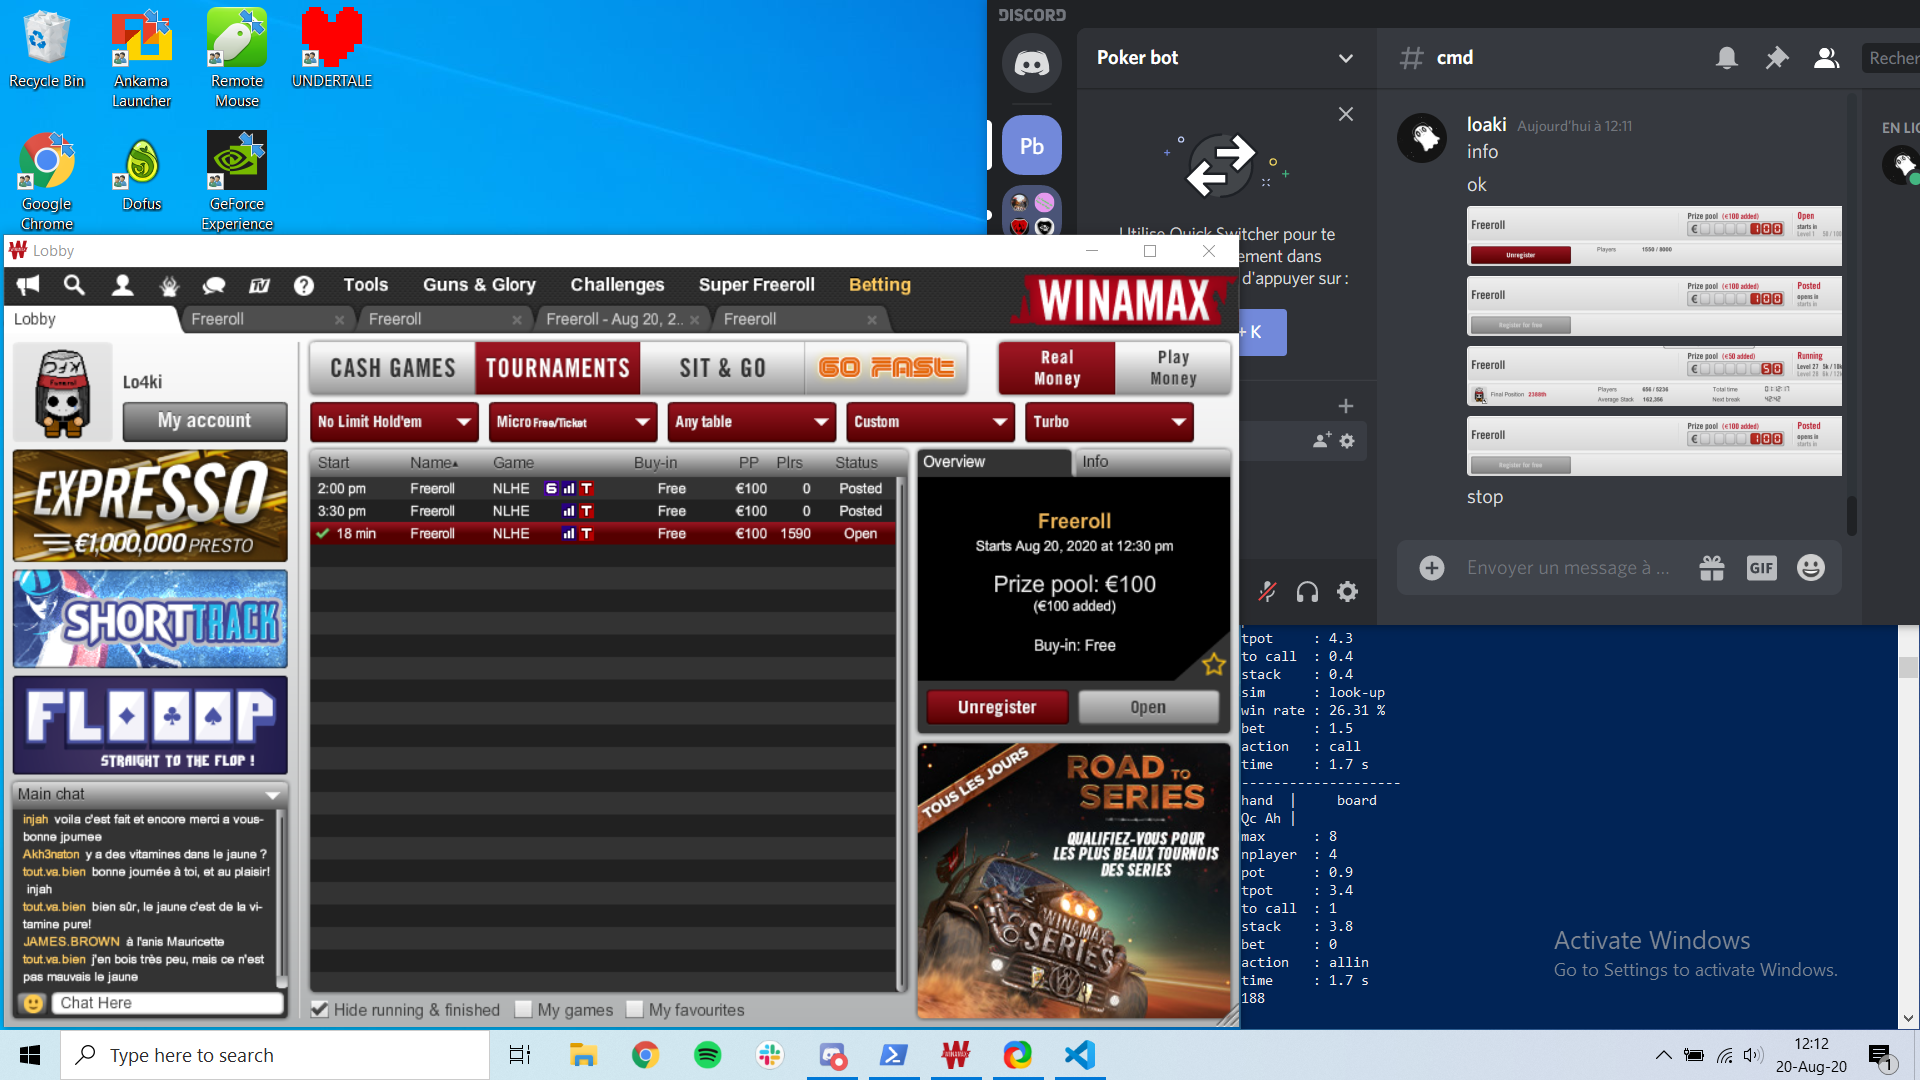
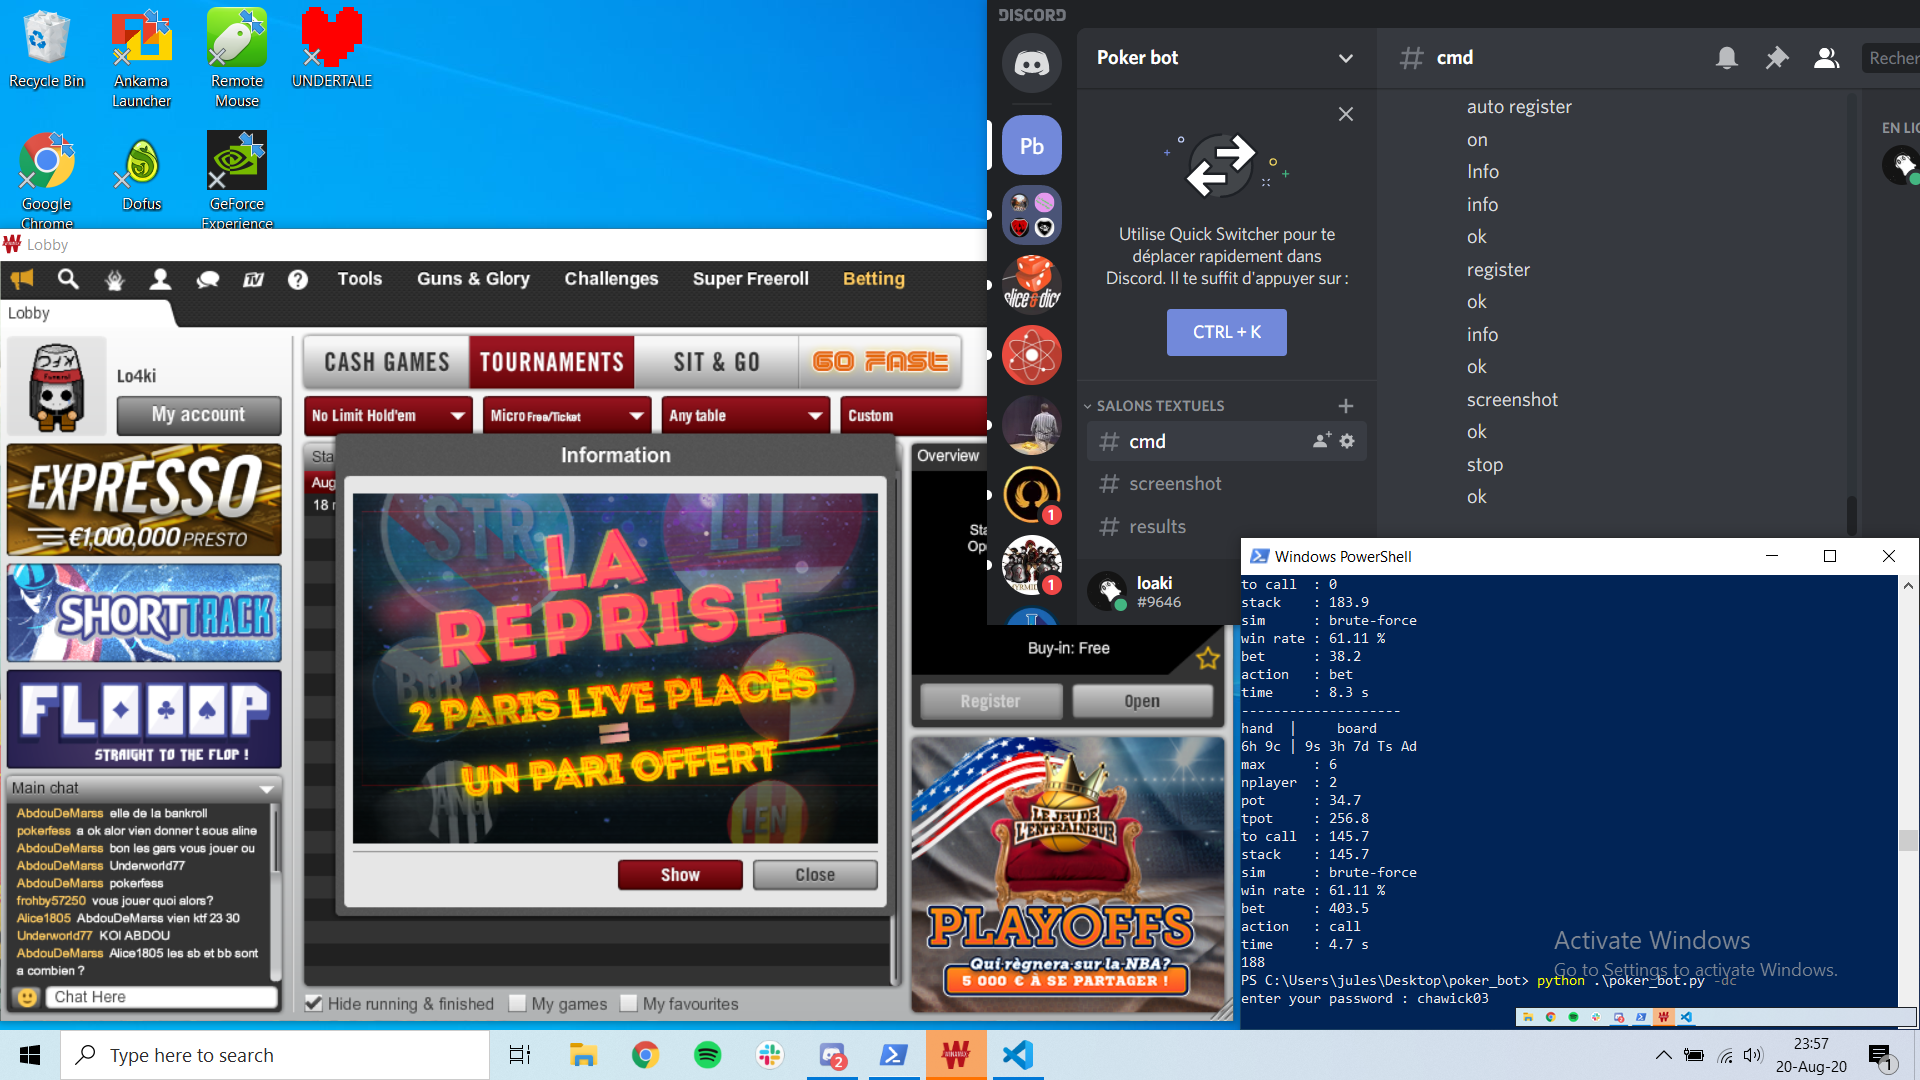
fix

diff --git a/poker_bot.py b/poker_bot.py
@@ -83,6 +83,8 @@ def log_in(psw):
             pyautogui.press('enter')
         if pyautogui.locateOnScreen('images/button/ok.png') != None:
             pyautogui.click('images/button/ok.png')
+    while pyautogui.locateOnScreen('images/button/close.png') != None:
+        pyautogui.click('images/button/close.png')
 
 def get_nplayermax(max):
     nplayer = 0
